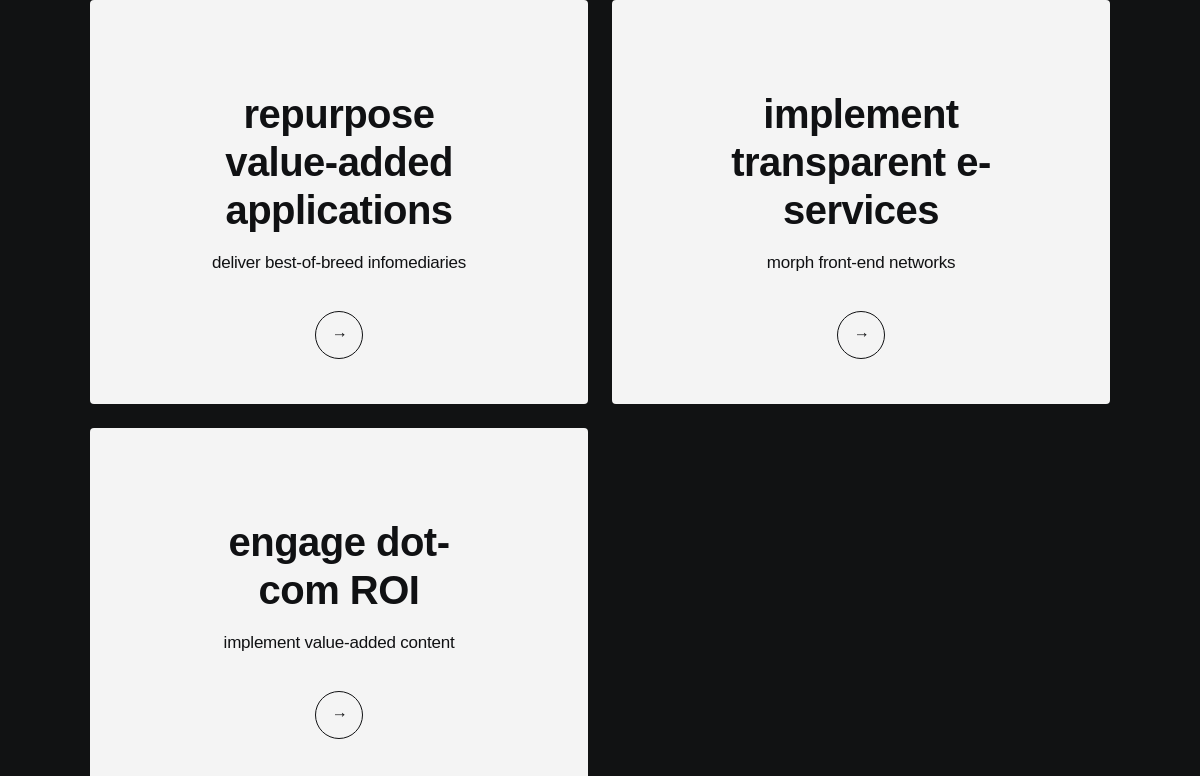
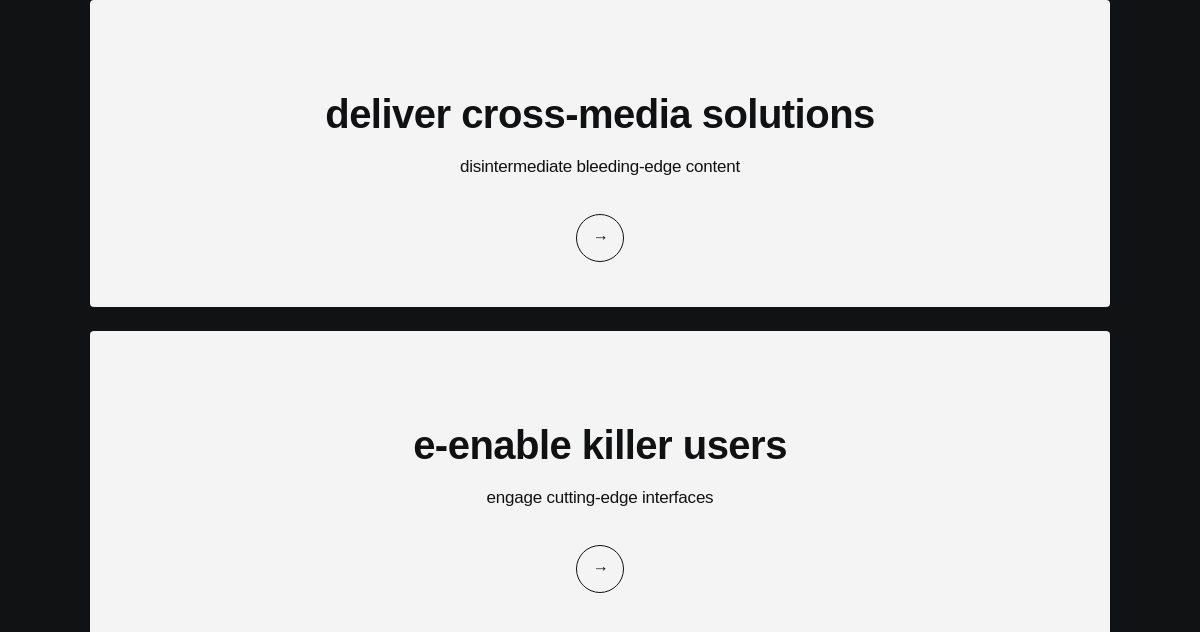
MAR-1752 Added theme for CustomerLogos slice

diff --git a/.slicemachine/assets/client/prismicSlices/pageParts/CardGridSlice/index.stories.js b/.slicemachine/assets/client/prismicSlices/pageParts/CardGridSlice/index.stories.js
@@ -18,7 +18,7 @@ export const _DefaultSlice = () => ({
   },
   data() {
     return {
-      mock: {"variation":"default-slice","name":"Default slice","slice_type":"card_grid_slice","items":[{"title":"repurpose value-added applications","description":"deliver best-of-breed infomediaries","btnLink":{"link_type":"Web","url":"https://prismic.io"},"image":{"dimensions":{"width":900,"height":500},"alt":"Placeholder image","copyright":null,"url":"https://images.unsplash.com/photo-1591012911207-0dbac31f37da?w=900&h=500&fit=crop"},"fullWidth":false},{"title":"implement transparent e-services","description":"morph front-end networks","btnLink":{"link_type":"Web","url":"http://twitter.com"},"image":{"dimensions":{"width":900,"height":500},"alt":"Placeholder image","copyright":null,"url":"https://images.unsplash.com/photo-1606248897732-2c5ffe759c04?w=900&h=500&fit=crop"},"fullWidth":false},{"title":"engage dot-com ROI","description":"implement value-added content","btnLink":{"link_type":"Web","url":"https://prismic.io"},"image":{"dimensions":{"width":900,"height":500},"alt":"Placeholder image","copyright":null,"url":"https://images.unsplash.com/photo-1576662712957-9c79ae1280f8?w=900&h=500&fit=crop"},"fullWidth":false}],"primary":{},"id":"_DefaultSlice"}
+      mock: {"variation":"default-slice","name":"Default slice","slice_type":"card_grid_slice","items":[{"title":"deliver cross-media solutions","description":"disintermediate bleeding-edge content","btnLink":{"link_type":"Web","url":"https://slicemachine.dev"},"image":{"dimensions":{"width":900,"height":500},"alt":"Placeholder image","copyright":null,"url":"https://images.unsplash.com/photo-1607582278043-57198ac8da43?w=900&h=500&fit=crop"},"fullWidth":true},{"title":"e-enable killer users","description":"engage cutting-edge interfaces","btnLink":{"link_type":"Web","url":"https://prismic.io"},"image":{"dimensions":{"width":900,"height":500},"alt":"Placeholder image","copyright":null,"url":"https://images.unsplash.com/photo-1589652717521-10c0d092dea9?w=900&h=500&fit=crop"},"fullWidth":true}],"primary":{"colorTheme":"black"},"id":"_DefaultSlice"}
     }
   },
   template: '<SliceZone :slices="[mock]" :resolver="resolve" />'

diff --git a/client/prismicSlices/pageParts/CustomerLogoSlice/index.vue b/client/prismicSlices/pageParts/CustomerLogoSlice/index.vue
@@ -1,12 +1,9 @@
 <template>
-  <section class="customer-logo-slice">
+  <section
+    class="customer-logo-slice"
+    :class="colorThemeClass"
+  >
     <div class="container">
-      <h2 v-if="slice.primary.title">
-        {{ slice.primary.title }}
-      </h2>
-      <p v-if="slice.primary.description">
-        {{ slice.primary.description }}
-      </p>
       <div class="customer-logo-slice_list">
         <div
           v-for="(item, i) of slice.items"
@@ -37,6 +34,13 @@ export default {
       },
     },
   },
+
+  computed: {
+    colorThemeClass() {
+      if (this.slice?.primary?.colorTheme === 'white') return 'customer-logo-slice--white-theme'
+      return 'customer-logo-slice--black-theme'
+    },
+  },
 }
 </script>
 
@@ -48,34 +52,11 @@ export default {
     align-items: center;
   }
 
-  h2 {
-    width: 100%;
-    text-align: center;
-    @include h2-title;
-    width: max-content;
-    color: #101113;
-    padding-bottom: 4px;
-  }
-
-  p {
-    width: 680px;
-    text-align: center;
-    @include font('Inter', 14px, 400);
-    line-height: 22px;
-    letter-spacing: -0.02em;
-    color: #101113;
-
-    @media only screen and (max-width: 834px) {
-      width: 395px;
-    }
-  }
-
   &_list {
     width: 100%;
     display: grid;
     grid-template-columns: repeat(6,1fr);
     grid-gap: 20px;
-    margin-top: 40px;
 
     @media only screen and (max-width: 1300px) {
       grid-template-columns: repeat(5, 1fr);
@@ -114,7 +95,6 @@ export default {
     flex-direction: column;
     justify-content: center;
     align-items: center;
-    background-color: #191A1B;
     padding: 24px 8px;
     box-sizing: border-box;
 
@@ -131,6 +111,22 @@ export default {
         width: 75px;
         height: 33px;
       }
+    }
+  }
+
+  // ---- Themes ---- //
+  &--white-theme {
+    background-color: #fff;
+
+    .customer-logo-slice_logo {
+      background-color: #fff;
+    }
+  }
+  &--black-theme {
+    background-color: #111213;
+
+    .customer-logo-slice_logo {
+      background-color: #191A1B;
     }
   }
 }

diff --git a/.slicemachine/assets/client/prismicSlices/pageParts/CustomerLogoSlice/index.stories.js b/.slicemachine/assets/client/prismicSlices/pageParts/CustomerLogoSlice/index.stories.js
@@ -18,7 +18,7 @@ export const _Default = () => ({
   },
   data() {
     return {
-      mock: {"variation":"default","name":"Default Slice","slice_type":"customer_logo_slice","items":[{"logo":{"dimensions":{"width":900,"height":500},"alt":"Placeholder image","copyright":null,"url":"https://images.unsplash.com/photo-1589652717521-10c0d092dea9?w=900&h=500&fit=crop"},"link":{"link_type":"Web","url":"http://twitter.com"}},{"logo":{"dimensions":{"width":900,"height":500},"alt":"Placeholder image","copyright":null,"url":"https://images.unsplash.com/photo-1541807084-5c52b6b3adef?w=900&h=500&fit=crop"},"link":{"link_type":"Web","url":"https://slicemachine.dev"}},{"logo":{"dimensions":{"width":900,"height":500},"alt":"Placeholder image","copyright":null,"url":"https://images.unsplash.com/photo-1486312338219-ce68d2c6f44d?w=900&h=500&fit=crop"},"link":{"link_type":"Web","url":"http://twitter.com"}}],"primary":{"title":"f","description":"matrix scalable eyeballs"},"id":"_Default"}
+      mock: {"variation":"default","name":"Default Slice","slice_type":"customer_logo_slice","items":[{"logo":{"dimensions":{"width":900,"height":500},"alt":"Placeholder image","copyright":null,"url":"https://images.unsplash.com/photo-1493119508027-2b584f234d6c?w=900&h=500&fit=crop"},"link":{"link_type":"Web","url":"https://slicemachine.dev"}},{"logo":{"dimensions":{"width":900,"height":500},"alt":"Placeholder image","copyright":null,"url":"https://images.unsplash.com/photo-1587614295999-6c1c13675117?w=900&h=500&fit=crop"},"link":{"link_type":"Web","url":"http://google.com"}},{"logo":{"dimensions":{"width":900,"height":500},"alt":"Placeholder image","copyright":null,"url":"https://images.unsplash.com/photo-1541807084-5c52b6b3adef?w=900&h=500&fit=crop"},"link":{"link_type":"Web","url":"http://google.com"}}],"primary":{"colorTheme":"white"},"id":"_Default"}
     }
   },
   template: '<SliceZone :slices="[mock]" :resolver="resolve" />'

diff --git a/client/prismicSlices/pageParts/CardGridSlice/index.vue b/client/prismicSlices/pageParts/CardGridSlice/index.vue
@@ -1,5 +1,8 @@
 <template>
-  <section class="container">
+  <section
+    class="container"
+    :class="colorThemeClass"
+  >
     <ul class="card-grid-slice">
       <li
         v-for="(item, i) of slice.items"
@@ -53,6 +56,19 @@ export default {
       default() {
         return {}
       },
+    },
+  },
+
+  data() {
+    return {
+      colorTheme: this.slice.primary.colorTheme,
+    }
+  },
+
+  computed: {
+    colorThemeClass() {
+      if (this.colorTheme === 'white') return 'card-grid-slice--white-theme'
+      return 'card-grid-slice--black-theme'
     },
   },
 }
